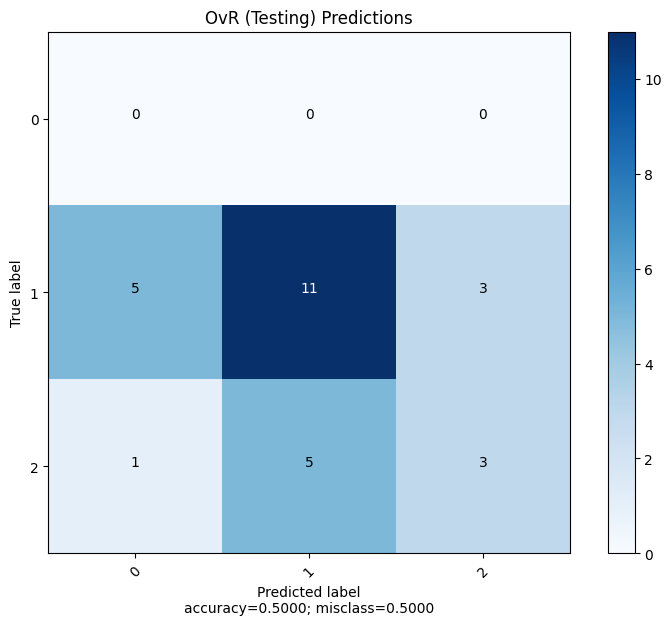
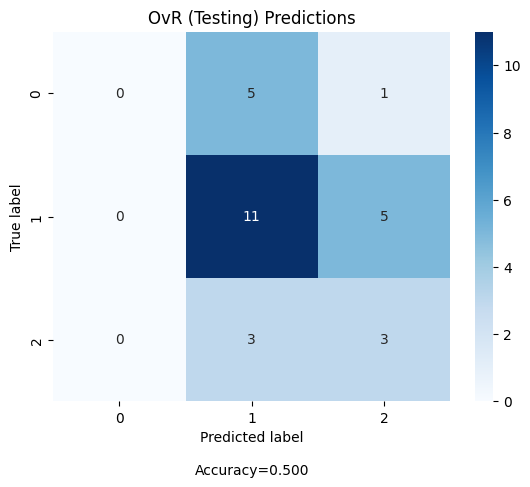
updated confusion matrix and figures

diff --git a/code/analysis.py b/code/analysis.py
@@ -1,10 +1,10 @@
-import itertools
 import numpy as np
 import pandas as pd
+import seaborn as sns
 import matplotlib.pyplot as plt
 from sklearn.preprocessing import StandardScaler
 from sklearn.impute import KNNImputer
-from sklearn.metrics import confusion_matrix, accuracy_score, precision_score, recall_score, f1_score
+from sklearn.metrics import confusion_matrix, accuracy_score, precision_score, recall_score, f1_score, multilabel_confusion_matrix, ConfusionMatrixDisplay
 from sklearn.tree import DecisionTreeRegressor
 from sklearn.linear_model import LinearRegression, Ridge
 from sklearn.ensemble import RandomForestRegressor, GradientBoostingRegressor
@@ -101,46 +101,121 @@ def get_model_inputs(df, simple=False):
     return x_train, x_val, x_test, y_train, y_val, y_test
 
 
-def plot_confusion_matrix(cm,
-                          target_names,
-                          title='Confusion matrix',
-                          cmap=None,
-                          normalize=True):
+"""
+All credit goes to Dennis Trimarchi for this confusion matrix function.
+You can find the Github repository here: https://github.com/DTrimarchi10/confusion_matrix/tree/master
+"""
 
-    accuracy = np.trace(cm) / float(np.sum(cm))
-    misclass = 1 - accuracy
 
-    if cmap is None:
-        cmap = plt.get_cmap('Blues')
+def make_confusion_matrix(cf,
+                          group_names=None,
+                          categories='auto',
+                          count=True,
+                          percent=True,
+                          cbar=True,
+                          xyticks=True,
+                          xyplotlabels=True,
+                          sum_stats=True,
+                          figsize=None,
+                          cmap='Blues',
+                          title=None):
+    '''
+    This function will make a pretty plot of an sklearn Confusion Matrix cm using a Seaborn heatmap visualization.
 
-    plt.figure(figsize=(8, 6))
-    plt.imshow(cm, interpolation='nearest', cmap=cmap)
-    plt.title(title)
-    plt.colorbar()
+    Arguments
+    ---------
+    cf:            confusion matrix to be passed in
 
-    if target_names is not None:
-        tick_marks = np.arange(len(target_names))
-        plt.xticks(tick_marks, target_names, rotation=45)
-        plt.yticks(tick_marks, target_names)
+    group_names:   List of strings that represent the labels row by row to be shown in each square.
 
-    if normalize:
-        cm = cm.astype('float') / cm.sum(axis=1)[:, np.newaxis]
+    categories:    List of strings containing the categories to be displayed on the x,y axis. Default is 'auto'
 
-    thresh = cm.max() / 1.5 if normalize else cm.max() / 2
-    for i, j in itertools.product(range(cm.shape[0]), range(cm.shape[1])):
-        if normalize:
-            plt.text(j, i, "{:0.4f}".format(cm[i, j]),
-                     horizontalalignment="center",
-                     color="white" if cm[i, j] > thresh else "black")
+    count:         If True, show the raw number in the confusion matrix. Default is True.
+
+    normalize:     If True, show the proportions for each category. Default is True.
+
+    cbar:          If True, show the color bar. The cbar values are based off the values in the confusion matrix.
+                   Default is True.
+
+    xyticks:       If True, show x and y ticks. Default is True.
+
+    xyplotlabels:  If True, show 'True Label' and 'Predicted Label' on the figure. Default is True.
+
+    sum_stats:     If True, display summary statistics below the figure. Default is True.
+
+    figsize:       Tuple representing the figure size. Default will be the matplotlib rcParams value.
+
+    cmap:          Colormap of the values displayed from matplotlib.pyplot.cm. Default is 'Blues'
+                   See http://matplotlib.org/examples/color/colormaps_reference.html
+
+    title:         Title for the heatmap. Default is None.
+
+    '''
+
+    # CODE TO GENERATE TEXT INSIDE EACH SQUARE
+    blanks = ['' for i in range(cf.size)]
+
+    if group_names and len(group_names) == cf.size:
+        group_labels = ["{}\n".format(value) for value in group_names]
+    else:
+        group_labels = blanks
+
+    if count:
+        group_counts = ["{0:0.0f}\n".format(value) for value in cf.flatten()]
+    else:
+        group_counts = blanks
+
+    if percent:
+        group_percentages = ["{0:.2%}".format(
+            value) for value in cf.flatten()/np.sum(cf)]
+    else:
+        group_percentages = blanks
+
+    box_labels = [f"{v1}{v2}{v3}".strip() for v1, v2, v3 in zip(
+        group_labels, group_counts, group_percentages)]
+    box_labels = np.asarray(box_labels).reshape(cf.shape[0], cf.shape[1])
+
+    # CODE TO GENERATE SUMMARY STATISTICS & TEXT FOR SUMMARY STATS
+    if sum_stats:
+        # Accuracy is sum of diagonal divided by total observations
+        accuracy = np.trace(cf) / float(np.sum(cf))
+
+        # if it is a binary confusion matrix, show some more stats
+        if len(cf) == 2:
+            # Metrics for Binary Confusion Matrices
+            precision = cf[1, 1] / sum(cf[:, 1])
+            recall = cf[1, 1] / sum(cf[1, :])
+            f1_score = 2*precision*recall / (precision + recall)
+            stats_text = "\n\nAccuracy={:0.3f}\nPrecision={:0.3f}\nRecall={:0.3f}\nF1 Score={:0.3f}".format(
+                accuracy, precision, recall, f1_score)
         else:
-            plt.text(j, i, "{:,}".format(cm[i, j]),
-                     horizontalalignment="center",
-                     color="white" if cm[i, j] > thresh else "black")
+            stats_text = "\n\nAccuracy={:0.3f}".format(accuracy)
+    else:
+        stats_text = ""
 
-    plt.tight_layout()
-    plt.ylabel('True label')
-    plt.xlabel('Predicted label\naccuracy={:0.4f}; misclass={:0.4f}'.format(
-        accuracy, misclass))
+    # SET FIGURE PARAMETERS ACCORDING TO OTHER ARGUMENTS
+    if figsize == None:
+        # Get default figure size if not set
+        figsize = plt.rcParams.get('figure.figsize')
+
+    if xyticks == False:
+        # Do not show categories if xyticks is False
+        categories = False
+
+    # MAKE THE HEATMAP VISUALIZATION
+    plt.figure(figsize=figsize)
+    sns.heatmap(cf, annot=box_labels, fmt="", cmap=cmap, cbar=cbar,
+                xticklabels=categories, yticklabels=categories)
+
+    if xyplotlabels:
+        plt.ylabel('True label')
+        plt.xlabel('Predicted label' + stats_text)
+    else:
+        plt.xlabel(stats_text)
+
+    if title:
+        plt.title(title)
+
     plt.show()
 
 
@@ -176,10 +251,11 @@ def get_metrics(y_train=None, y_train_pred=None, y_val=None, y_val_pred=None,
 
         if conf_train:
 
-            cm_train = confusion_matrix(y_train_pred, y_train[outcome_name])
+            cm_train = confusion_matrix(
+                y_true=y_train[outcome_name], y_pred=y_train_pred, labels=[0, 1, 2])
 
-            plot_confusion_matrix(cm_train, [0, 1, 2],
-                                  f'{model_type} (Training) Predictions', normalize=False)
+            make_confusion_matrix(cm_train, group_names=[
+                                  '0', '1', '2'], title=f'{model_type} (Testing) Predictions', percent=False)
 
         train_accuracy = accuracy_score(y_train[outcome_name], y_train_pred)
         train_precision = precision_score(
@@ -199,9 +275,10 @@ def get_metrics(y_train=None, y_train_pred=None, y_val=None, y_val_pred=None,
 
         if conf_val:
 
-            cm_val = confusion_matrix(y_val_pred, y_val[outcome_name])
-            plot_confusion_matrix(cm_val, [0, 1, 2],
-                                  f'{model_type} (Validation) Predictions', normalize=False)
+            cm_val = confusion_matrix(
+                y_true=y_val[outcome_name], y_pred=y_val_pred, labels=[0, 1, 2])
+            make_confusion_matrix(cm_val, group_names=[
+                                  '0', '1', '2'], title=f'{model_type} (Testing) Predictions', percent=False)
 
         val_accuracy = accuracy_score(y_val[outcome_name], y_val_pred)
         val_precision = precision_score(
@@ -220,9 +297,10 @@ def get_metrics(y_train=None, y_train_pred=None, y_val=None, y_val_pred=None,
 
         if conf_test:
 
-            cm_val = confusion_matrix(y_test_pred, y_test[outcome_name])
-            plot_confusion_matrix(cm_val, [0, 1, 2],
-                                  f'{model_type} (Testing) Predictions', normalize=False)
+            cm_test = confusion_matrix(
+                y_true=y_test[outcome_name], y_pred=y_test_pred, labels=[0, 1, 2])
+            make_confusion_matrix(cm_test, group_names=[
+                                  '0', '1', '2'], title=f'{model_type} (Testing) Predictions', percent=False)
 
         test_accuracy = accuracy_score(y_test[outcome_name], y_test_pred)
         test_precision = precision_score(
@@ -595,6 +673,7 @@ def main(outcome_name='rating'):
 
     y_test_pred = reg.predict(x_test)
     y_test_pred = update_thresholds(y_test_pred, thresholds)
+
     get_metrics(y_test=y_test, y_test_pred=y_test_pred,
                 outcome_name=outcome_name, conf_test=True,
                 model_type="Linear Regression")
